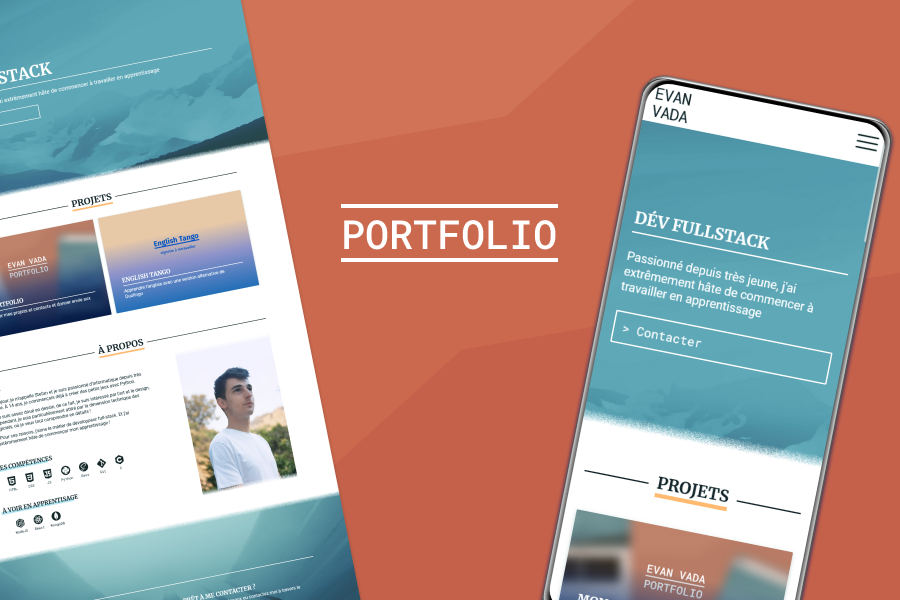
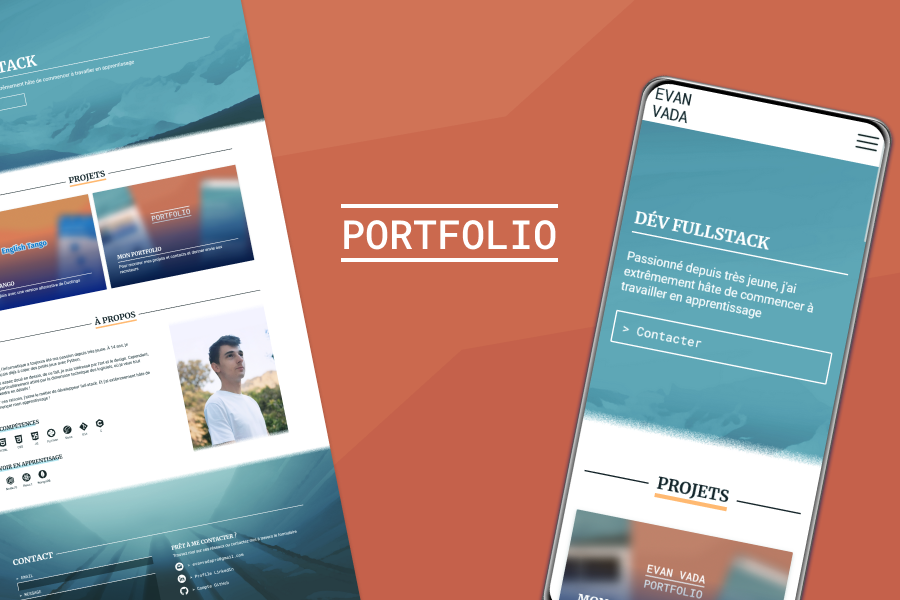
Small changes and more informations

Changed region(s): [[0.0, 0.12, 0.4044, 1.0], [0.0, 0.09, 0.1867, 0.21]]

diff --git a/index.html b/index.html
@@ -101,7 +101,7 @@
 				<div class="portfolio-project__gradient proj1"></div>
 				<div class="portfolio-project__overlay">
 					<h3>MON PORTFOLIO</h3>
-					<span>Pour montrer mes projets et contacts et donner envie aux recruteurs</span>
+					<span>Pour montrer mes projets, mes contacts et donner envie aux recruteurs</span>
 				</div>
 			</div>
 		</div>
@@ -113,7 +113,7 @@
 		<div class="about__grid">
 			<div class="about__myself">
 				<div class="title-decor highlight"><h3>DE MOI</h3></div>
-				<p>• Bonjour, je m'appelle Stefan et je suis passionné d'informatique depuis très jeune. À 14 ans, je commençais déjà à créer des petits jeux avec Python.</p>
+				<p>• Bonjour, l'informatique a toujours été ma passion depuis très jeune. À 14 ans, je commençais déjà à créer des petits jeux avec Python.</p>
 				<p>• Je suis assez doué en dessin, de ce fait, je suis intéressé par l'art et le design. Cependant, je suis particulièrement attiré par la dimension technique des logiciels, où je veux tout comprendre en détails&nbsp;!</p>
 				<p>• Pour ces raisons, j'aime le métier de développeur full-stack. Et j'ai extêmmement hâte de commençer mon apprentissage&nbsp;!</p>
 			</div>
@@ -167,7 +167,7 @@
 
 	<footer class="footer">
 		<div class="footer__element">
-			Copyright 2023 Stefan aka Evan Vada
+			Copyright 2023 Evan Vada
 		</div>
 		<nav class="footer__nav">
 			<a class="footer__element" href="index.html">Home</a>

diff --git a/englishtango.html b/englishtango.html
@@ -83,9 +83,9 @@
 			<a href="https://github.com/evanvada/englishtango" target="_blank" class="secondary-button fat-button w-icon"><div class="code auto-color icon"></div><span>> Voir le code source</span></a>
 		</div>
 		<div class="title-decor left right underline"><h2>INTRODUCTION</h2></div>
-		L'Étude de Cas n'est pas disponible sur le site web pour le moment, désolé. Par contre, vous pouvez lire le README.md sur le repo GitHub pour plus d'informations.
+		L'Étude de Cas n'est pas disponible sur le site web pour le moment, désolé. Par contre, vous pouvez lire le README.md sur le repo GitHub pour plus d'informations
 		<br>
-		<div style="color: lightgray;">
+		<div style="opacity: 0.2;">
 			<br>
 			Lorem ipsum dolor sit amet, consectetur adipiscing elit, sed do eiusmod tempor incididunt ut labore et dolore magna aliqua. Vulputate ut pharetra sit amet. Commodo viverra maecenas accumsan lacus. Duis convallis convallis tellus id interdum. Vestibulum lectus mauris ultrices eros. Euismod quis viverra nibh cras pulvinar mattis nunc. Tortor at risus viverra adipiscing at in tellus. Egestas egestas fringilla phasellus faucibus scelerisque eleifend donec pretium vulputate. Sit amet tellus cras adipiscing enim eu turpis egestas pretium. Nulla posuere sollicitudin aliquam ultrices sagittis orci.
 			<br>

diff --git a/portfolio.html b/portfolio.html
@@ -85,7 +85,7 @@
 		<div class="title-decor left right underline"><h2>INTRODUCTION</h2></div>
 		L'Étude de Cas n'est pas disponible sur le site web pour le moment, désolé. Par contre, vous pouvez lire le README.md sur le repo GitHub pour plus d'informations.
 		<br>
-		<div style="color: lightgray;">
+		<div style="opacity: 0.2;">
 			<br>
 			Lorem ipsum dolor sit amet, consectetur adipiscing elit, sed do eiusmod tempor incididunt ut labore et dolore magna aliqua. Vulputate ut pharetra sit amet. Commodo viverra maecenas accumsan lacus. Duis convallis convallis tellus id interdum. Vestibulum lectus mauris ultrices eros. Euismod quis viverra nibh cras pulvinar mattis nunc. Tortor at risus viverra adipiscing at in tellus. Egestas egestas fringilla phasellus faucibus scelerisque eleifend donec pretium vulputate. Sit amet tellus cras adipiscing enim eu turpis egestas pretium. Nulla posuere sollicitudin aliquam ultrices sagittis orci.
 			<br>

diff --git a/style/portfolio.css b/style/portfolio.css
@@ -1,6 +1,6 @@
 
 .hero__bg {
 	background-color: #cb6a50;
-	background-image: url("../../../media/hero3.png");
+	background-image: url("../media/hero3.png");
 }
 

diff --git a/style/englishtango.css b/style/englishtango.css
@@ -1,5 +1,5 @@
 
 .hero__bg {
 	background-color: #dc7250;
-	background-image: url("../../../media/hero4.png");
+	background-image: url("../media/hero4.png");
 }

diff --git a/style/index.css b/style/index.css
@@ -1,5 +1,5 @@
 
 .hero__bg {
 	background-color: #4c6d7b;
-	background-image: url("../../../media/hero1.png");
+	background-image: url("../media/hero1.png");
 }

diff --git a/README.md b/README.md
@@ -1,0 +1,37 @@
+# My Portfolio Website
+
+This is a simple static website designed to showcase my projects to interested employers.
+evanvada.github.io
+
+###### Projects showcased
+- The portfolio itself
+- My english learning web app
+
+### Features
+- The projects will be displayed in a grid format
+- Clicking on a project will redirect the user to a showcase page (that also includes my GitHub code, and a link to the application hosted on GitHub.)
+- There is an about section displaying the skills I know and the skills I will be learning in my apprenticeship
+- The user can directly send an email via the form using the Formspree service
+- The user can switch between dark and light mode in the header
+- The website is responsive, a mobile menu can be used
+
+### Technical design
+I'm using BEM and the 7-1 pattern, but I'm not using Sass
+- BEM is a naming convention for CSS classes that helps organize code
+- The 7-1 pattern is a folder structure for organizing Sass
+- I didn't use Sass because I wanted to set up my project quickly, and since this small project didn't require Sass, I opted not to include it
+
+###### Tools
+- plain HTML
+- basic CSS
+- ordinary JavaScript
+
+###### JS files
+- theme.js: This script is executed at the start of `<body>`. The default value for the theme is set by the system's preferences. It also saves user's choise into localStorage
+- menu.js: Responsible for managing the mobile menu
+- index.js: Contains a listener to the form, sending an email and handling error messages
+
+
+
+
+
